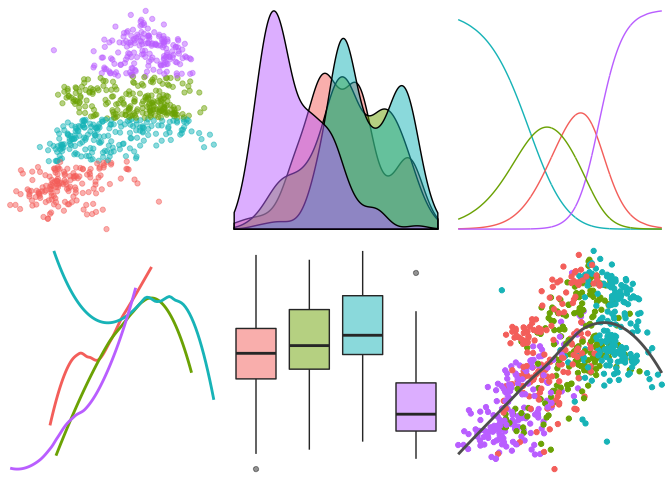
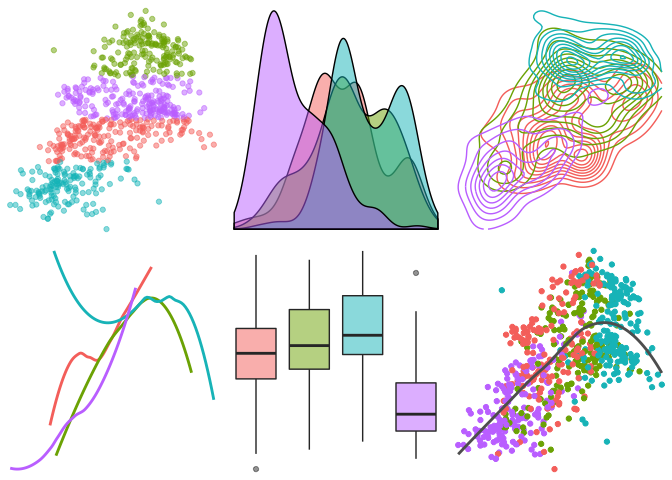
remove unused plots.

diff --git a/docs/index.html b/docs/index.html
@@ -1,7 +1,7 @@
 <!doctype html>
 <html lang="en">
 <head>
-	<meta name="generator" content="Hugo 0.52" />
+	<meta name="generator" content="Hugo 0.49" />
 	<meta charset="utf-8" />
 	<link rel="icon" sizes="76x76" href="./img/favicon.png">
 	<link rel="icon" type="image/png" href="./img/favicon.png">
@@ -107,7 +107,7 @@
     	</div>
     </nav>
   <div class="wrapper">
-    <div class="header header-filter" style="background-image: url('http://www2.stat.duke.edu/courses/Spring19/sta199.001/img/bikeshare-plots.png');">
+    <div class="header header-filter" style="background-image: url('http://www2.stat.duke.edu/courses/Spring19/sta210.001/img/bikeshare-reg-plots.png');">
       <div class="container">
         <div class="row">
 					<div class="col-md-6">

diff --git a/docs/archives.html b/docs/archives.html
@@ -106,7 +106,7 @@
     	</div>
     </nav>
   <div class="wrapper">
-    <div class="header header-filter" style="background-image: url('http://www2.stat.duke.edu/courses/Spring19/sta199.001/img/bikeshare-plots.png');">
+    <div class="header header-filter" style="background-image: url('http://www2.stat.duke.edu/courses/Spring19/sta210.001/img/bikeshare-reg-plots.png');">
       <div class="container">
         <div class="row">
 					<div class="col-md-6">

diff --git a/docs/categories.html b/docs/categories.html
@@ -106,7 +106,7 @@
     	</div>
     </nav>
   <div class="wrapper">
-    <div class="header header-filter" style="background-image: url('http://www2.stat.duke.edu/courses/Spring19/sta199.001/img/bikeshare-plots.png');">
+    <div class="header header-filter" style="background-image: url('http://www2.stat.duke.edu/courses/Spring19/sta210.001/img/bikeshare-reg-plots.png');">
       <div class="container">
         <div class="row">
 					<div class="col-md-6">

diff --git a/docs/tags.html b/docs/tags.html
@@ -106,7 +106,7 @@
     	</div>
     </nav>
   <div class="wrapper">
-    <div class="header header-filter" style="background-image: url('http://www2.stat.duke.edu/courses/Spring19/sta199.001/img/bikeshare-plots.png');">
+    <div class="header header-filter" style="background-image: url('http://www2.stat.duke.edu/courses/Spring19/sta210.001/img/bikeshare-reg-plots.png');">
       <div class="container">
         <div class="row">
 					<div class="col-md-6">

diff --git a/docs/policies.html b/docs/policies.html
@@ -106,7 +106,7 @@
     	</div>
     </nav>
   <div class="wrapper">
-    <div class="header header-filter" style="background-image: url('http://www2.stat.duke.edu/courses/Spring19/sta199.001/img/bikeshare-plots.png');">
+    <div class="header header-filter" style="background-image: url('http://www2.stat.duke.edu/courses/Spring19/sta210.001/img/bikeshare-reg-plots.png');">
     </div>
 		<div class="main main-raised">
 			<div class="container">

diff --git a/docs/schedule.html b/docs/schedule.html
@@ -106,7 +106,7 @@
     	</div>
     </nav>
   <div class="wrapper">
-    <div class="header header-filter" style="background-image: url('http://www2.stat.duke.edu/courses/Spring19/sta199.001/img/bikeshare-plots.png');">
+    <div class="header header-filter" style="background-image: url('http://www2.stat.duke.edu/courses/Spring19/sta210.001/img/bikeshare-reg-plots.png');">
     </div>
 		<div class="main main-raised">
 			<div class="container">

diff --git a/website-background.md b/website-background.md
@@ -1,4 +1,4 @@
-Simple Website Background Using ggplot2
+Simple Website Background for a Regression Analysis Course
 ================
 Dr. Maria Tackett
 12.20.2018
@@ -7,13 +7,12 @@ Dr. Maria Tackett
 library(tidyverse)
 library(readr)
 library(cowplot)
-library(nnet)
 ```
 
 Introduction
 ------------
 
-This document contains the code used to make the background image for the [STA 210 Spring 2019](https://www2.stat.duke.edu/courses/Spring19/sta210.001/) course website. This background can be used to start a discussion with students about various types of regression models.
+This document contains the code used to make the background image for the [STA 210 Spring 2019](https://www2.stat.duke.edu/courses/Spring19/sta210.001/) course website. This background can be used to start a discussion with students about using data visualization to understand the relationship between multiple variables.
 
 The Data
 --------
@@ -39,81 +38,13 @@ bikeshare <- bikeshare %>%
   select(season,atemp,cnt)
 ```
 
-The Models
-----------
-
 ``` r
+# k means clustering for plot p1
+
 bike.cl <- kmeans(bikeshare[,2:3], 4, nstart = 20)
 bikeshare <- 
   bikeshare %>% 
   mutate(cluster=as.factor(bike.cl$cluster))
-```
-
-``` r
-p1 <- ggplot(data=bikeshare,aes(x=atemp,y=cnt,color=cluster)) +
-  geom_point(alpha=0.5) +
-  theme_void() +
-  theme(legend.position="none")
-```
-
-``` r
-p6 <- bikeshare %>%
-  ggplot(aes(x=atemp,y=cnt)) + 
-  geom_point(aes(color=season)) + 
-  geom_smooth(color="#606060",se=FALSE) +
-  theme_void() +
-  theme(legend.position="none")
-```
-
-``` r
-bikeshare <- 
-  bikeshare %>%
-  mutate(is.winter = ifelse(season=="Winter",1,0),
-         is.spring = ifelse(season=="Spring",1,0),
-         is.summer = ifelse(season=="Summer",1,0),
-         is.fall = ifelse(season=="Fall",1,0))
-```
-
-``` r
-# glm_model <- glm(is.summer ~ atemp + cnt, data=bikeshare, family=binomial)
-# bikeshare <- augment(glm_model,type.predict="response")
-p3 <- ggplot(data=bikeshare,aes(x=atemp,y=is.winter)) +
-  geom_point(alpha=0.3) +
-  geom_smooth(method="glm",method.args=list(family="binomial"),se=FALSE,color="#00BFC4")+
-  geom_smooth(aes(x=atemp,y=is.spring),method="glm",method.args=list(family="binomial"),se=FALSE,color="#F8766D")+
-  geom_smooth(aes(x=atemp,y=is.summer),method="glm",method.args=list(family="binomial"),se=FALSE,color="#C77CFF")+
-  geom_smooth(aes(x=atemp,y=is.fall),method="glm",method.args=list(family="binomial"),se=FALSE,color="#7CAE00") +
-  theme_void() + 
-  theme(legend.position="none")
-```
-
-``` r
-# fit multinomial logistic model 
-# add predicted probabilities to bikeshare data
-m <- multinom(season ~  atemp,data=bikeshare)
-```
-
-    ## # weights:  12 (6 variable)
-    ## initial  value 1013.381178 
-    ## iter  10 value 631.237836
-    ## iter  20 value 629.144982
-    ## final  value 629.144454 
-    ## converged
-
-``` r
-pred <- as.data.frame(predict.glm(m,type="response"))
-bikeshare <- bind_cols(bikeshare,pred)
-```
-
-``` r
-# plot predicted probabilites versus atemp
-p3 <- ggplot(data=bikeshare,aes(x=atemp)) + 
-  geom_line(aes(y=Winter),color="#00BFC4") +
-  geom_line(aes(y=Spring),color="#F8766D") +
-  geom_line(aes(y=Summer),color="#C77CFF") +
-  geom_line(aes(y=Fall),color="#7CAE00") +
-  theme_void() +
-  theme(legend.position="none")
 ```
 
 The Plots
@@ -123,13 +54,23 @@ A few notes about the plots:
 
 -   The plots used in this background are scatterplot, density plot, contour plot, linear smoothing, side-by-side boxplots, and area plots. See the [ggplot2 cheat sheet](https://www.rstudio.com/wp-content/uploads/2015/03/ggplot2-cheatsheet.pdf) for details and more plot options.
 
--   The titles, axes, and legend have been removed for each plot. These elements can be easily added by removing the `theme()` modifier.
+-   The titles, axes, and legend have been removed for each plot. These elements can be easily added by removing the `theme()` modifiers.
 
 ``` r
 alpha.level = 0.5 
 
+p1 <- ggplot(data=bikeshare,aes(x=atemp,y=cnt,color=cluster)) +
+  geom_point(alpha=alpha.level) +
+  theme_void() +
+  theme(legend.position="none")
+
 p2 <- ggplot(data=bikeshare,aes(x=cnt,fill=season)) +
   geom_density(alpha=alpha.level) +
+  theme_void() +
+  theme(legend.position="none")
+
+p3 <- ggplot(data=bikeshare,aes(x=cnt,y=atemp,color=season)) +
+  geom_density2d() +
   theme_void() +
   theme(legend.position="none")
 
@@ -143,6 +84,13 @@ p5 <- ggplot(data=bikeshare,aes(x=season,y=cnt,fill=season)) +
   theme_void() +
   theme(legend.position="none")
 
+p6 <- bikeshare %>%
+  ggplot(aes(x=atemp,y=cnt)) + 
+  geom_point(aes(color=season)) + 
+  geom_smooth(color="#606060",se=FALSE) +
+  theme_void() +
+  theme(legend.position="none")
+
 plot_grid(p1,p2,p3,p4,p5,p6,ncol=3)
 ```
 
@@ -150,5 +98,5 @@ plot_grid(p1,p2,p3,p4,p5,p6,ncol=3)
 
 ``` r
 # modify file location
-# ggsave("static/img/bikeshare-plots.png",scale=2)
+ggsave("static/img/bikeshare-reg-plots.png",scale=2)
 ```
